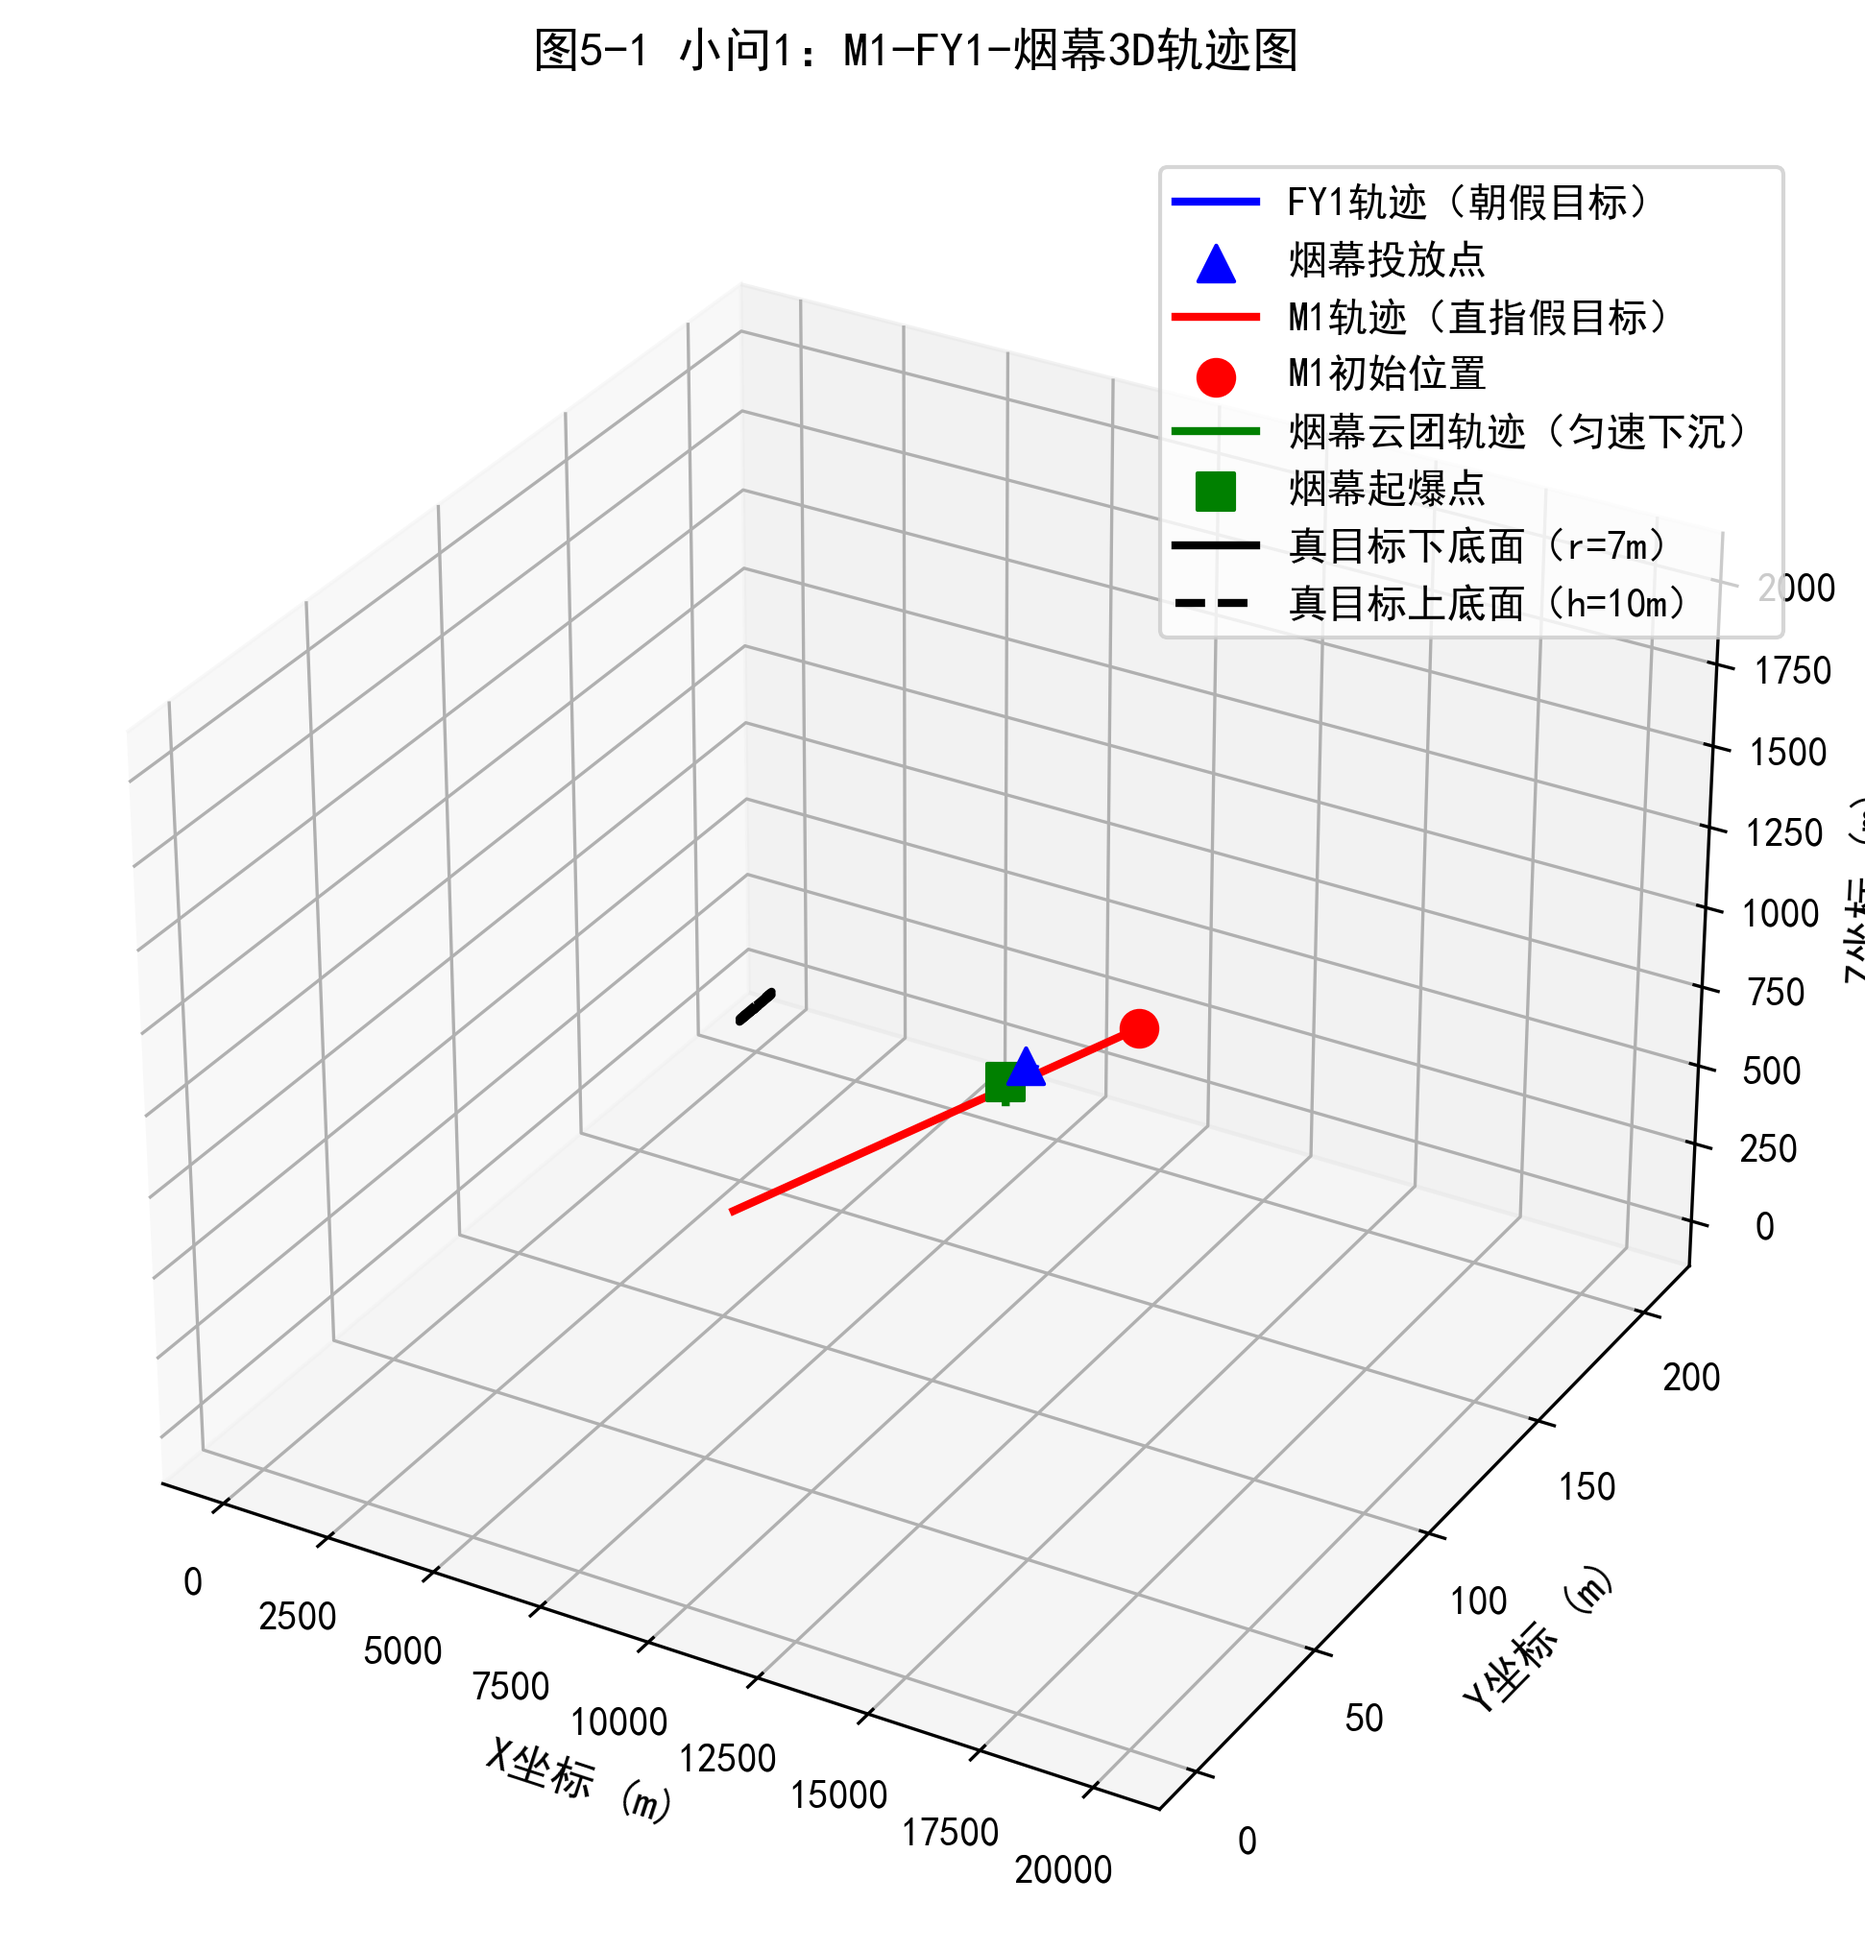
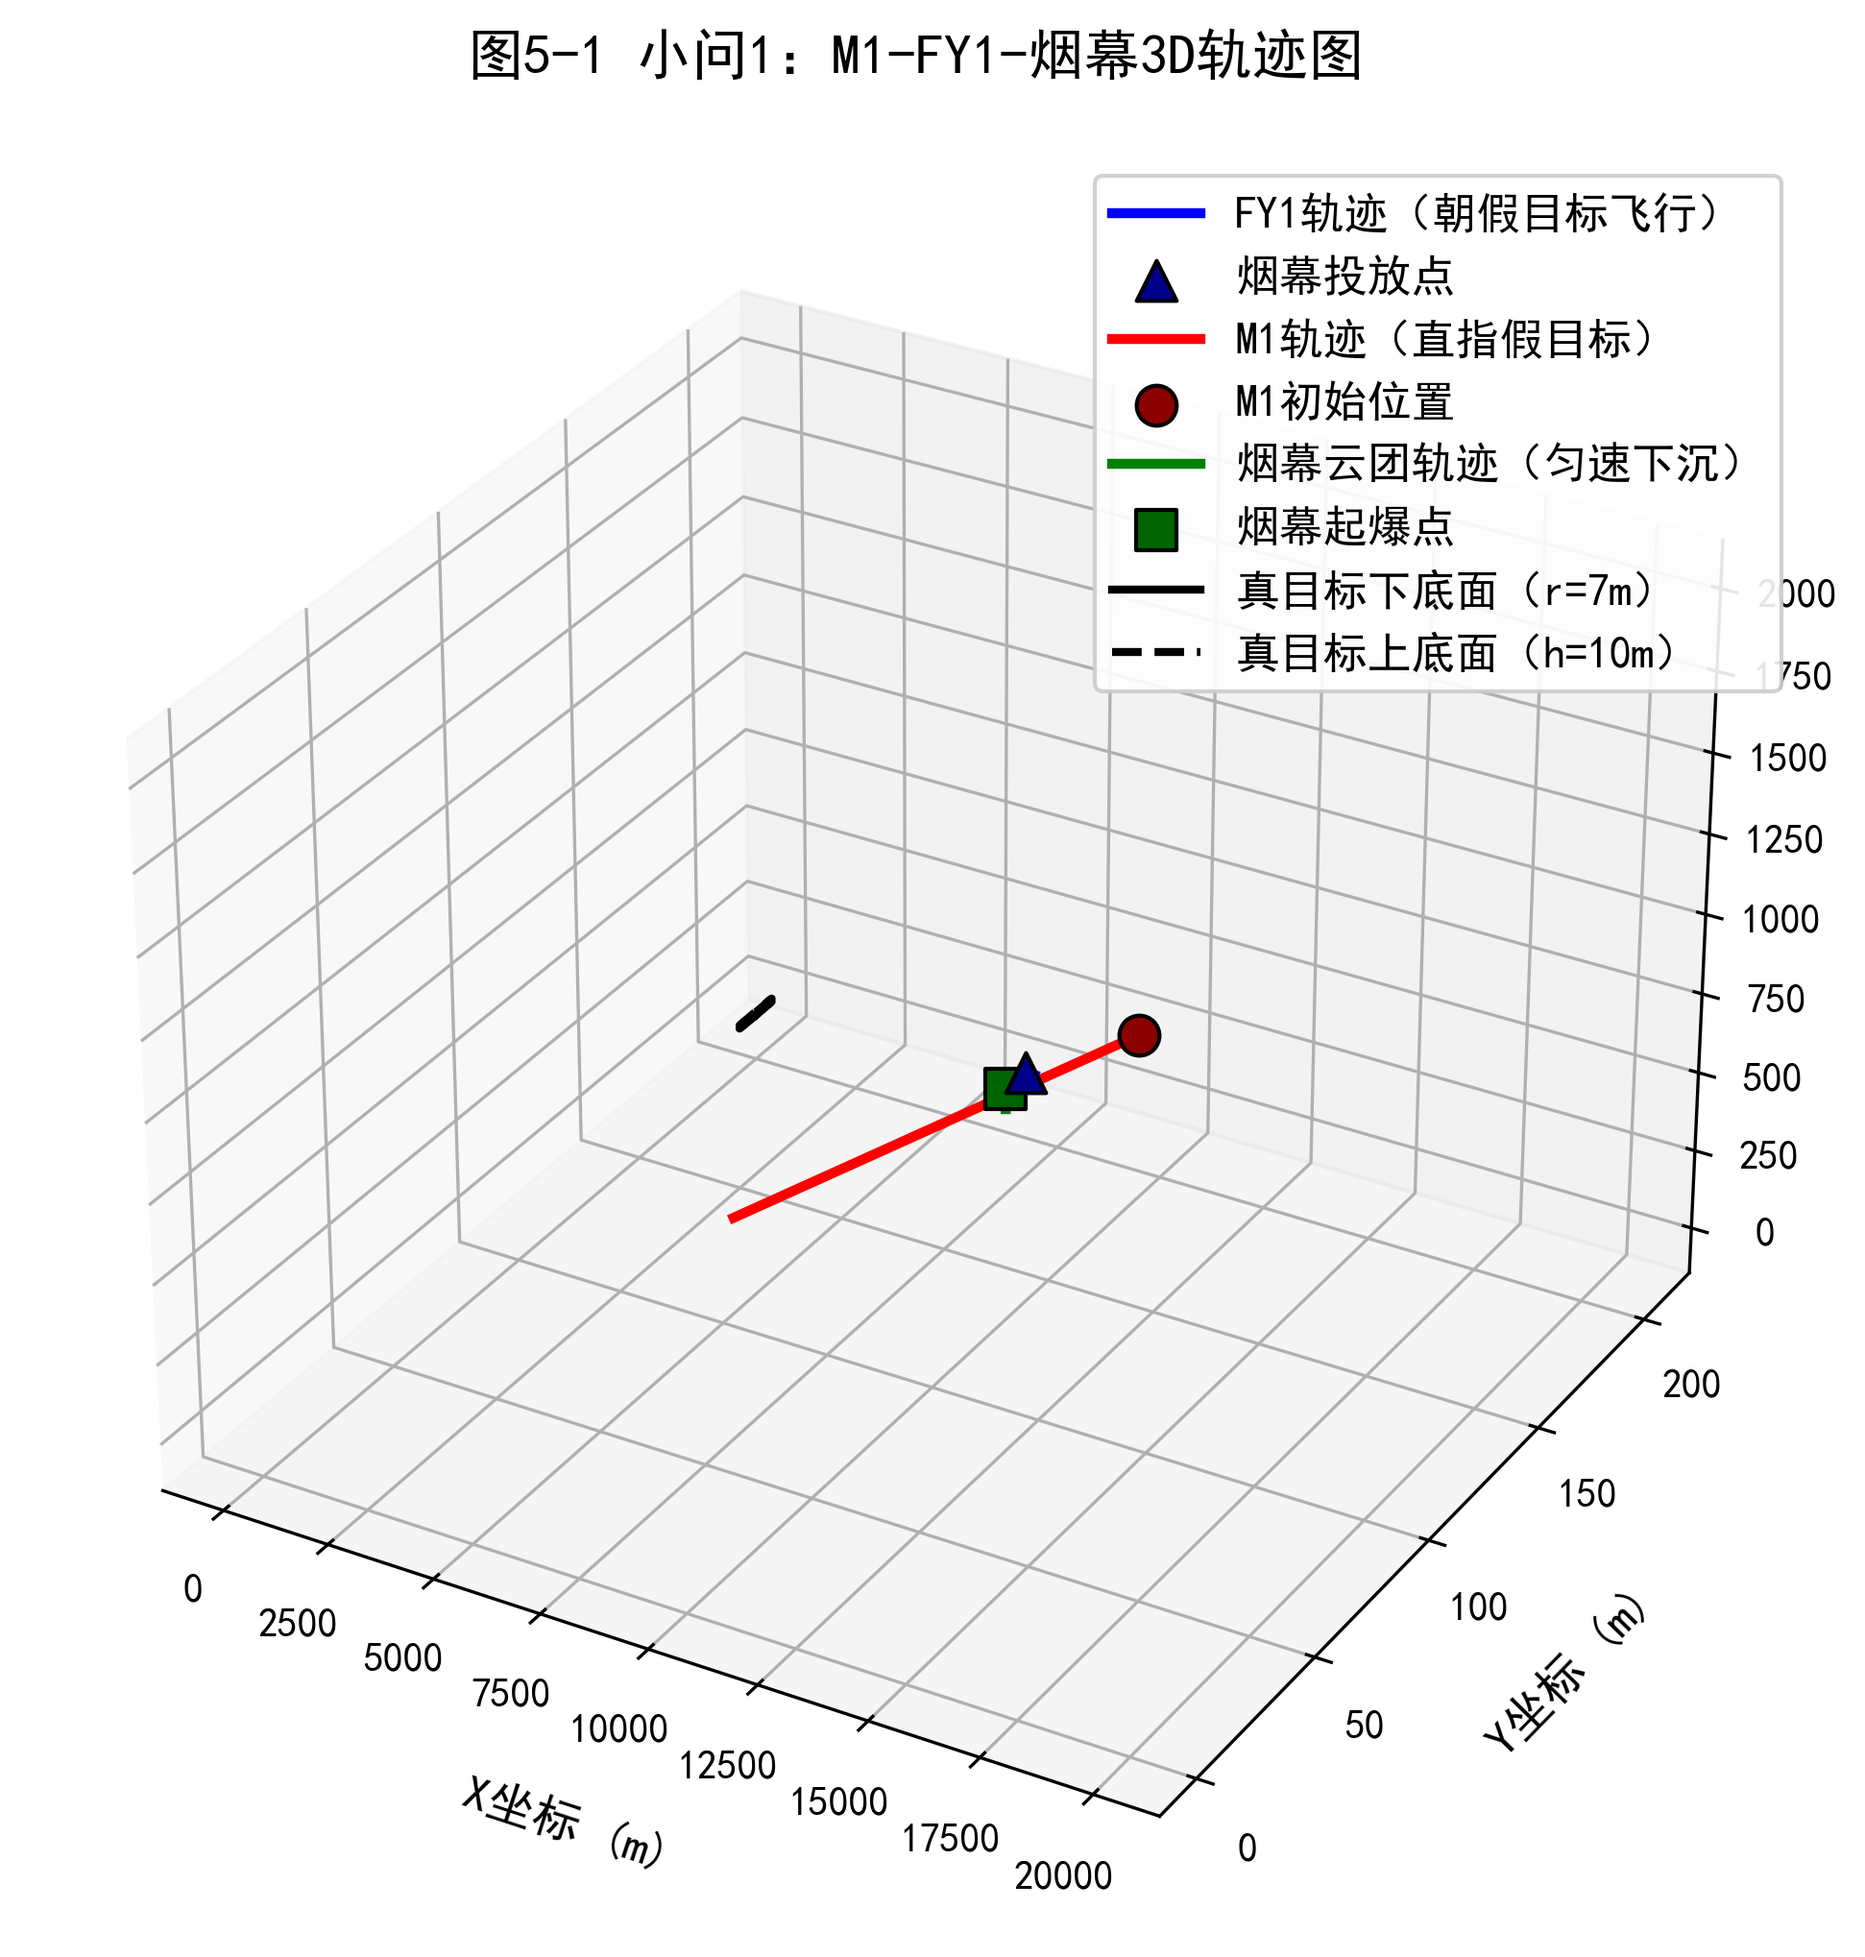
Add 3D trajectory visualization and time axis analysis for UAV and missile simulation

diff --git a/question1Photo1.py b/question1Photo1.py
@@ -1,0 +1,114 @@
+import numpy as np
+import matplotlib.pyplot as plt
+from mpl_toolkits.mplot3d import Axes3D
+# 导入论文中定义的核心函数（需确保路径正确）
+from core_functions import *
+# --------------------------
+# 1. 数据准备（严格匹配《A题.pdf》小问1固定参数）
+# --------------------------
+uav_init = np.array([17800, 0, 1800])  # FY1初始位置（A题6-6）
+v_uav = 120  # FY1速度（A题小问1固定）
+theta_uav = 180  # FY1方向（朝假目标，x负向）
+t_drop = 1.5  # 投放时间（A题小问1固定）
+t_delay = 3.6  # 起爆延迟（A题小问1固定）
+missile_init = np.array([20000, 0, 2000])  # M1初始位置（A题6-6）
+target_fake = np.array([0, 0, 0])  # 假目标（原点）
+t_det = t_drop + t_delay  # 起爆时刻（5.1s）
+t_missile_arrive = np.linalg.norm(missile_init - target_fake) / 300  # M1到达时间（≈67s）
+target_points = generate_target_points_A()  # 真目标125个采样点
+
+# 生成各主体轨迹数据（时间步长0.5s，平衡精度与流畅度）
+# 无人机轨迹（覆盖投放前：t∈[0, t_drop+1]）
+t_uav = np.arange(0, t_drop + 1, 0.5)
+uav_trajs = [trajectory_uav_A(t, uav_init, v_uav, theta_uav) for t in t_uav]
+# 导弹轨迹（覆盖烟幕有效时段：t∈[0, 30]）
+t_missile = np.arange(0, 30, 0.5)
+missile_trajs = [trajectory_missile_A(t, missile_init) for t in t_missile]
+# 烟幕轨迹（覆盖有效时间：t∈[t_det, t_det+20]）
+t_smoke = np.arange(t_det, t_det + 20, 0.5)
+smoke_trajs = [trajectory_smoke_A(t, t_drop, t_delay, uav_init, v_uav, theta_uav) for t in t_smoke]
+
+# --------------------------
+# 2. 绘图配置（解决中文乱码，确保清晰度）
+# --------------------------
+plt.rcParams['font.sans-serif'] = ['SimHei']  # 中文显示
+plt.rcParams['axes.unicode_minus'] = False  # 负号显示
+fig = plt.figure(figsize=(12, 8))  # 图大小（适配A4纸，横向更适合3D图）
+ax = fig.add_subplot(111, projection='3d')
+
+# --------------------------
+# 3. 绘制各主体轨迹与关键点位
+# --------------------------
+# ① 无人机轨迹（蓝色）
+ax.plot(
+    [p[0] for p in uav_trajs],
+    [p[1] for p in uav_trajs],
+    [p[2] for p in uav_trajs],
+    'b-', linewidth=2.5, label='FY1轨迹（朝假目标飞行）'
+)
+# 标注无人机投放点（三角形）
+drop_pos = trajectory_uav_A(t_drop, uav_init, v_uav, theta_uav)
+ax.scatter(
+    drop_pos[0], drop_pos[1], drop_pos[2],
+    c='darkblue', s=100, label='烟幕投放点', marker='^', edgecolors='black'
+)
+
+# ② 导弹轨迹（红色）
+ax.plot(
+    [p[0] for p in missile_trajs],
+    [p[1] for p in missile_trajs],
+    [p[2] for p in missile_trajs],
+    'r-', linewidth=2.5, label='M1轨迹（直指假目标）'
+)
+# 标注导弹初始位置（圆形）
+ax.scatter(
+    missile_init[0], missile_init[1], missile_init[2],
+    c='darkred', s=100, label='M1初始位置', marker='o', edgecolors='black'
+)
+
+# ③ 烟幕轨迹（绿色）
+ax.plot(
+    [p[0] for p in smoke_trajs],
+    [p[1] for p in smoke_trajs],
+    [p[2] for p in smoke_trajs],
+    'g-', linewidth=2.5, label='烟幕云团轨迹（匀速下沉）'
+)
+# 标注烟幕起爆点（方形）
+det_pos = trajectory_smoke_A(t_det, t_drop, t_delay, uav_init, v_uav, theta_uav)
+ax.scatter(
+    det_pos[0], det_pos[1], det_pos[2],
+    c='darkgreen', s=100, label='烟幕起爆点', marker='s', edgecolors='black'
+)
+
+# ④ 真目标（黑色圆柱，覆盖上下底面）
+theta_cyl = np.linspace(0, 2*np.pi, 100)  # 圆周方向采样100点，确保圆柱光滑
+# 下底面（z=0，真目标下底面圆心(0,200,0)）
+ax.plot(
+    0 + 7*np.cos(theta_cyl),
+    200 + 7*np.sin(theta_cyl),
+    np.zeros_like(theta_cyl),
+    'k-', linewidth=2, label='真目标下底面（r=7m）'
+)
+# 上底面（z=10m，真目标高度10m）
+ax.plot(
+    0 + 7*np.cos(theta_cyl),
+    200 + 7*np.sin(theta_cyl),
+    np.ones_like(theta_cyl)*10,
+    'k--', linewidth=2, label='真目标上底面（h=10m）'
+)
+
+# --------------------------
+# 4. 坐标轴与图例配置（确保评委易读）
+# --------------------------
+ax.set_xlabel('X坐标 (m)', fontsize=12, labelpad=10)
+ax.set_ylabel('Y坐标 (m)', fontsize=12, labelpad=10)
+ax.set_zlabel('Z坐标 (m)', fontsize=12, labelpad=10)
+ax.set_title('图5-1 小问1：M1-FY1-烟幕3D轨迹图', fontsize=14, pad=20)
+ax.legend(loc='upper right', fontsize=11, framealpha=0.9)  # 图例半透明，不遮挡轨迹
+ax.grid(True, alpha=0.3)  # 网格线增强空间感
+
+# --------------------------
+# 5. 保存图片（印刷级清晰度，避免标签截断）
+# --------------------------
+plt.savefig('小问1_3D轨迹图.png', dpi=300, bbox_inches='tight')  # bbox_inches解决标签被截断
+plt.close()

diff --git a/question1Photo2.py b/question1Photo2.py
@@ -1,0 +1,93 @@
+import numpy as np
+import matplotlib.pyplot as plt
+from core_functions import (trajectory_missile_A, trajectory_smoke_A,
+                          generate_target_points_A, is_shielded_A)
+
+# --------------------------
+# 1. 数据准备（与3D轨迹图一致，确保结果连贯）
+# --------------------------
+uav_init = np.array([17800, 0, 1800])
+v_uav = 120
+theta_uav = 180
+t_drop = 1.5
+t_delay = 3.6
+missile_init = np.array([20000, 0, 2000])
+target_fake = np.array([0, 0, 0])
+t_det = t_drop + t_delay
+t_missile_arrive = np.linalg.norm(missile_init - target_fake) / 300
+target_points = generate_target_points_A()
+r_smoke = 10  # 烟幕有效半径（A题6-5固定）
+
+# 计算每个时刻的遮蔽状态（时间步长0.1s，确保时段精度）
+t_total = np.arange(0, t_missile_arrive, 0.1)  # 覆盖导弹飞行全程
+shielded = np.zeros_like(t_total)  # 1=有效，0=无效
+smoke_valid = np.zeros_like(t_total)  # 1=烟幕物理有效（起爆后20s）
+
+for i, t in enumerate(t_total):
+    # 判断烟幕是否物理有效
+    if t_det <= t <= t_det + 20:
+        smoke_valid[i] = 1
+    # 计算遮蔽状态
+    if smoke_valid[i] == 1:
+        missile_pos = trajectory_missile_A(t, missile_init)
+        smoke_pos = trajectory_smoke_A(t, t_drop, t_delay, uav_init, v_uav, theta_uav)
+        if not np.any(np.isnan(smoke_pos)):
+            if is_shielded_A(t, missile_pos, smoke_pos, target_points, r_smoke):
+                shielded[i] = 1
+
+# --------------------------
+# 2. 绘图配置
+# --------------------------
+plt.rcParams['font.sans-serif'] = ['SimHei']
+plt.rcParams['axes.unicode_minus'] = False
+fig = plt.figure(figsize=(14, 5))  # 横向图，适合时间轴
+
+# --------------------------
+# 3. 绘制时间轴
+# --------------------------
+# ① 烟幕物理有效范围（橙色阴影，半透明）
+plt.fill_between(
+    t_total, 0, smoke_valid,
+    color='orange', alpha=0.3, label='烟幕物理有效范围（起爆后20s）'
+)
+# ② 有效遮蔽时段（绿色阴影，半透明）
+plt.fill_between(
+    t_total, 0, shielded,
+    color='green', alpha=0.5, label='有效遮蔽时段'
+)
+# ③ 导弹到达时间（红色虚线，标注关键节点）
+plt.axvline(
+    x=t_missile_arrive, color='red', linestyle='--', linewidth=2,
+    label=f'M1到达假目标时间（{t_missile_arrive:.1f}s）'
+)
+# ④ 烟幕起爆时间（蓝色虚线，标注关键节点）
+plt.axvline(
+    x=t_det, color='blue', linestyle='--', linewidth=2,
+    label=f'烟幕起爆时间（{t_det:.1f}s）'
+)
+
+# --------------------------
+# 4. 坐标轴与标注（量化关键指标）
+# --------------------------
+plt.xlabel('时间 (s)', fontsize=12)
+plt.ylabel('状态（1=有效，0=无效）', fontsize=12)
+plt.title('图5-2 小问1：烟幕有效遮蔽时间轴图', fontsize=14, pad=15)
+plt.ylim(-0.1, 1.1)  # 上下留空，避免标签紧贴边界
+plt.xlim(0, 40)  # 聚焦烟幕有效时段（0~40s），避免后期无效时段干扰
+plt.legend(fontsize=11, loc='upper right')
+plt.grid(True, alpha=0.3, axis='x')  # 仅x轴网格，增强时间可读性
+
+# 标注有效遮蔽时长（核心结果，让评委一眼看到）
+effective_duration = np.sum(shielded) * 0.1  # 步长0.1s，总时长=有效点数×0.1
+plt.text(
+    30, 0.5,  # 文字位置（右上角，不遮挡关键区域）
+    f'有效遮蔽时长：{effective_duration:.2f}s\n占烟幕物理有效时间比例：{effective_duration/20*100:.1f}%',
+    fontsize=11, bbox=dict(boxstyle='round', facecolor='white', alpha=0.8),
+    verticalalignment='center'
+)
+
+# --------------------------
+# 5. 保存图片
+# --------------------------
+plt.savefig('小问1_时间轴图.png', dpi=300, bbox_inches='tight')
+plt.close()
